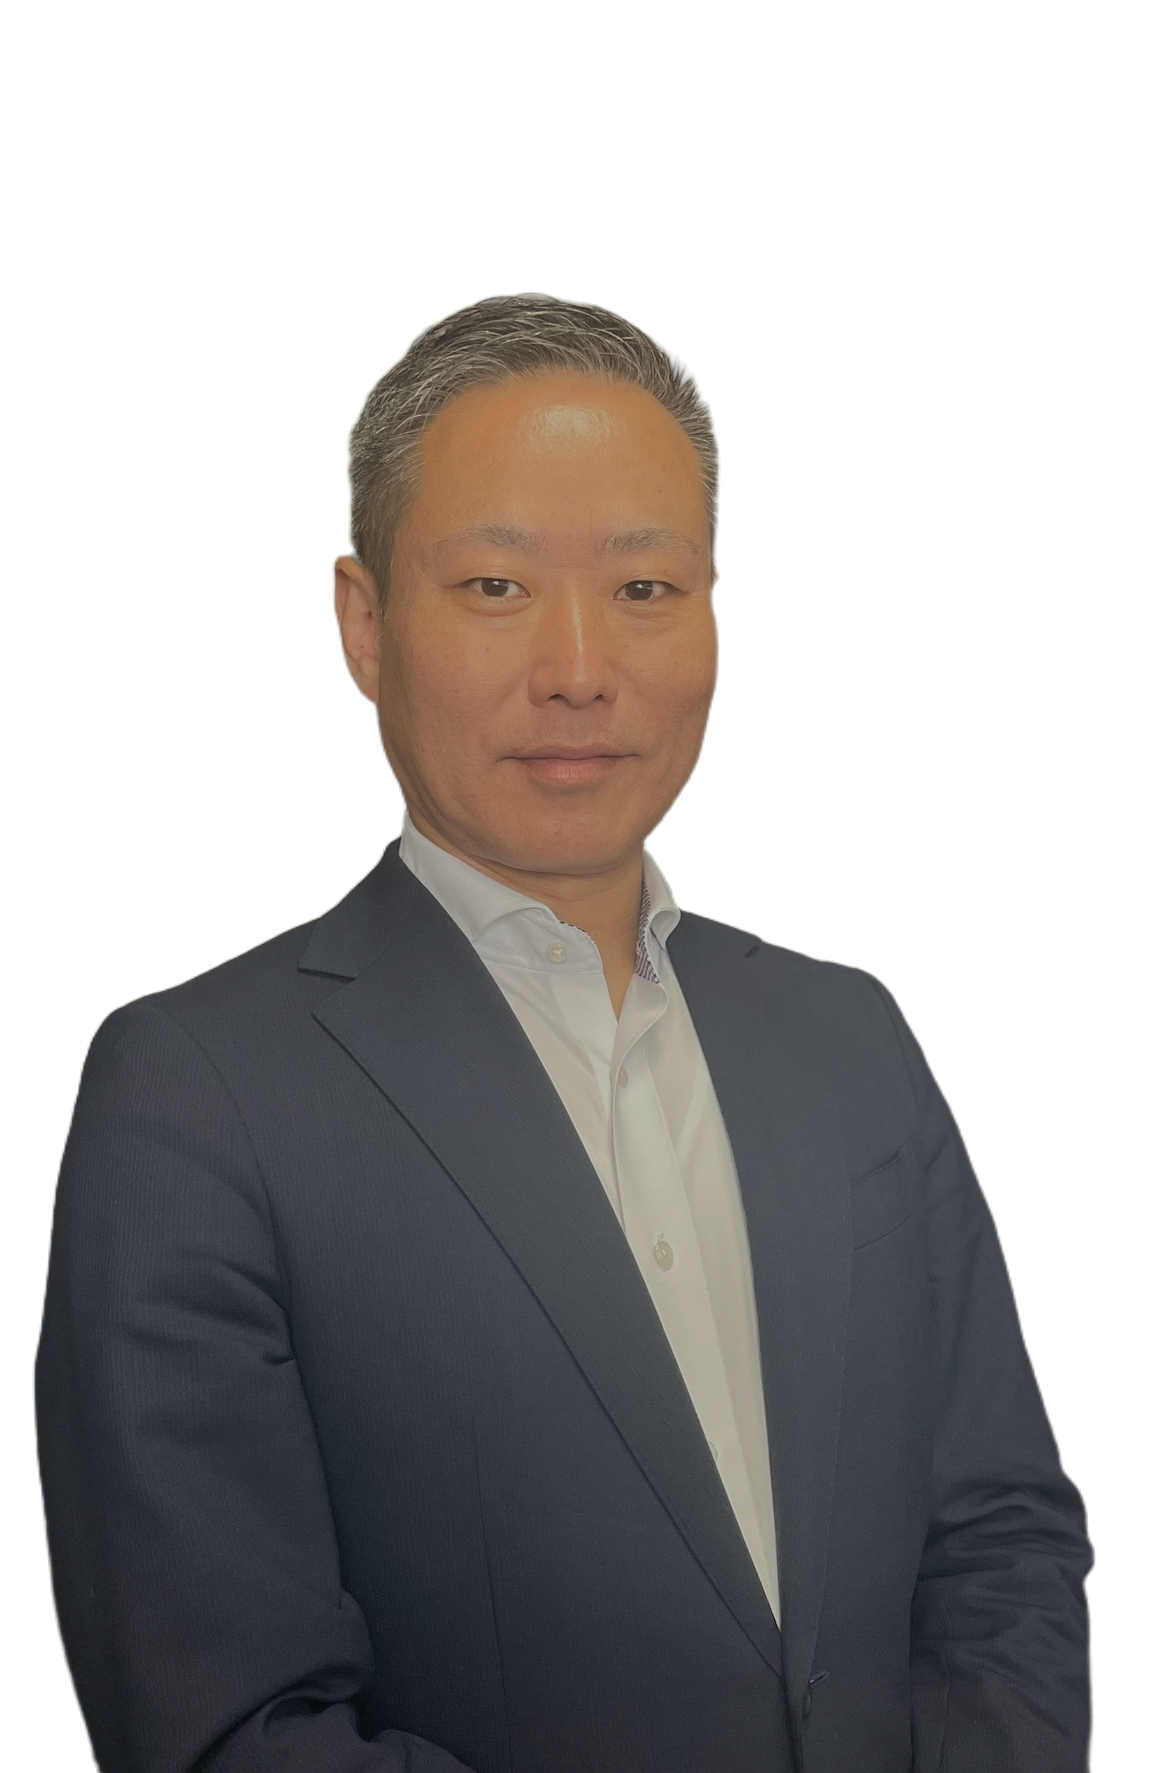
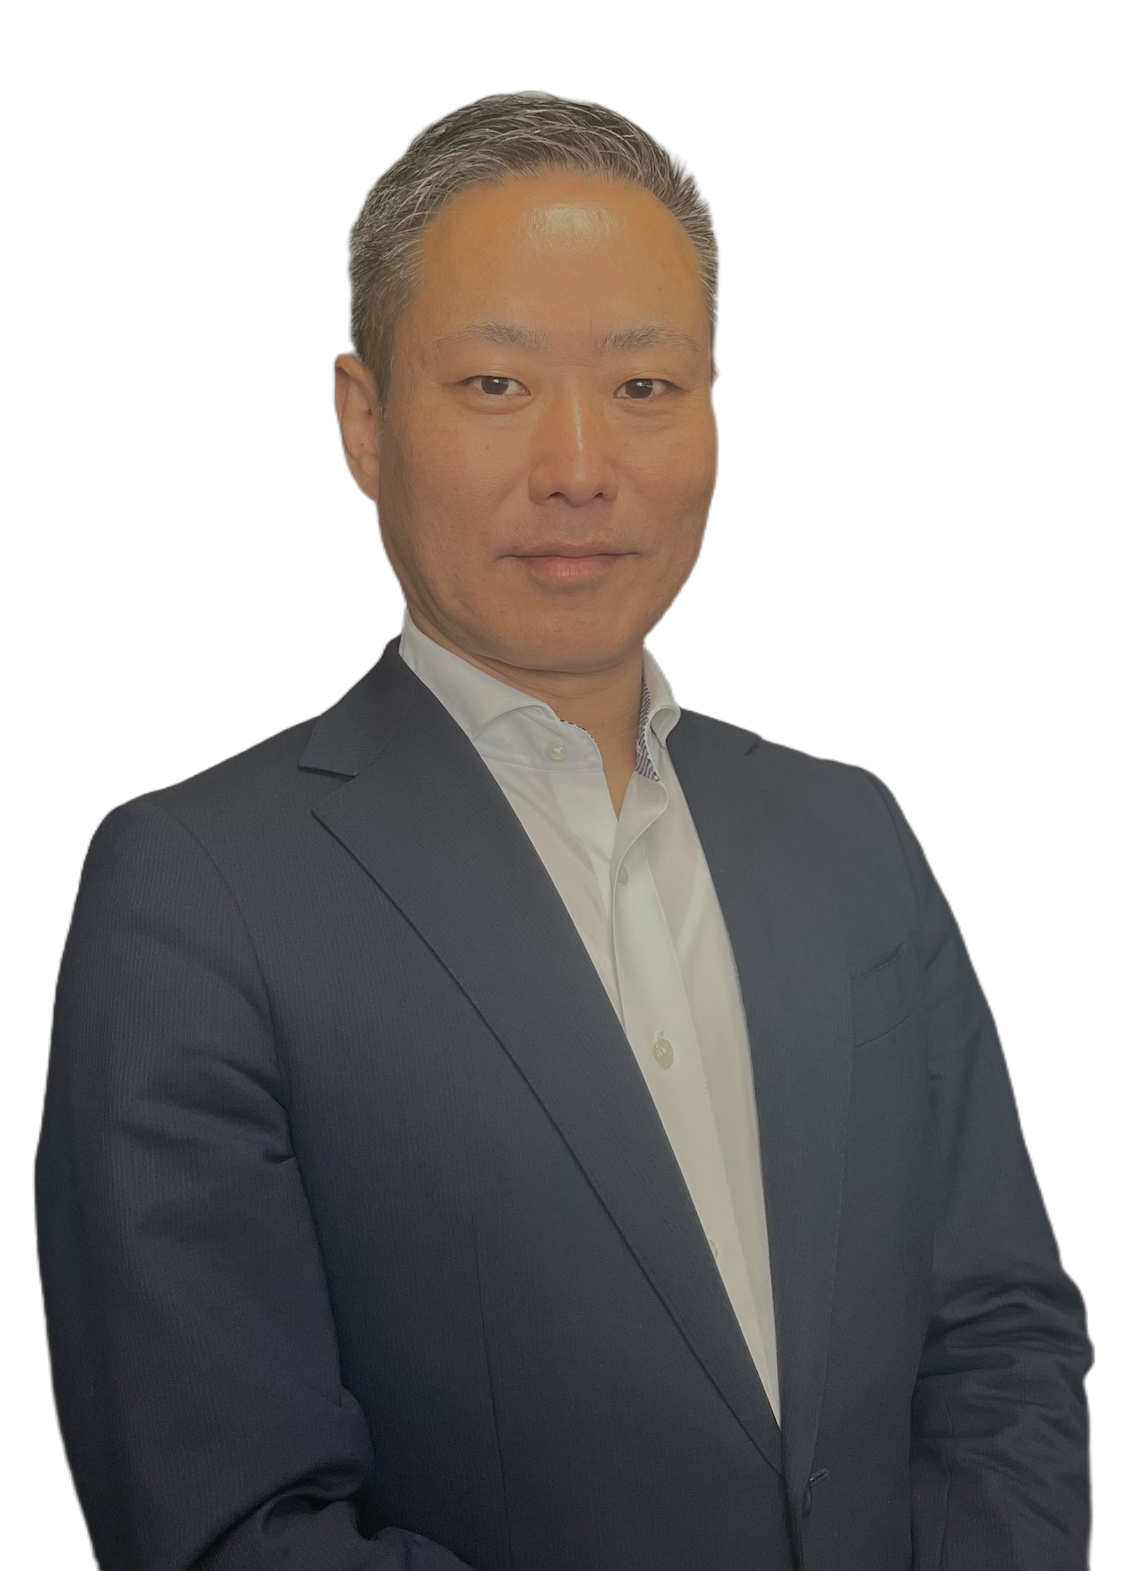
json for languages updated

diff --git a/index.html b/index.html
@@ -192,12 +192,12 @@
                 </div>
             </div>
             <div class="shortcut-links">
-                <a href="about.html#support-naiyou" class="shortcut-btn" data-i18n="footer.support_content">サポート内容</a>
+                <!-- <a href="about.html#support-naiyou" class="shortcut-btn" data-i18n="footer.support_content">サポート内容</a> -->
                 <a href="index.html#service-naiyou"class="shortcut-btn" data-i18n="footer.service_introduction">サービス紹介</a>
                 <a href="index.html#merit" class="shortcut-btn" data-i18n="footer.benefits">メリット</a>
                 <a href="index.html#greeting" class="shortcut-btn" data-i18n="footer.president_greeting">代表者挨拶</a>
                 <a href="index.html#ITF-point" class="shortcut-btn">ITFのポイント</a>
-                <a href="company_info.html" class="shortcut-btn" data-i18n="footer.company_info">会社概要</a>
+                <a href="index.html#osirase" class="shortcut-btn" data-i18n="footer.company_info">お知らせ</a>
                 <a href="index.html#kigyo-rinen" class="shortcut-btn" data-i18n="footer.company_philosophy">企業理念</a>
             </div>
 
@@ -580,7 +580,7 @@
 
 
 
-            <section class="l-section column">
+            <section class="l-section column" id="osirase">
                 <div class="wrapper pc-flex bet">
                     <div class="description flex vert">
                         <div class="l-section-header-center">
